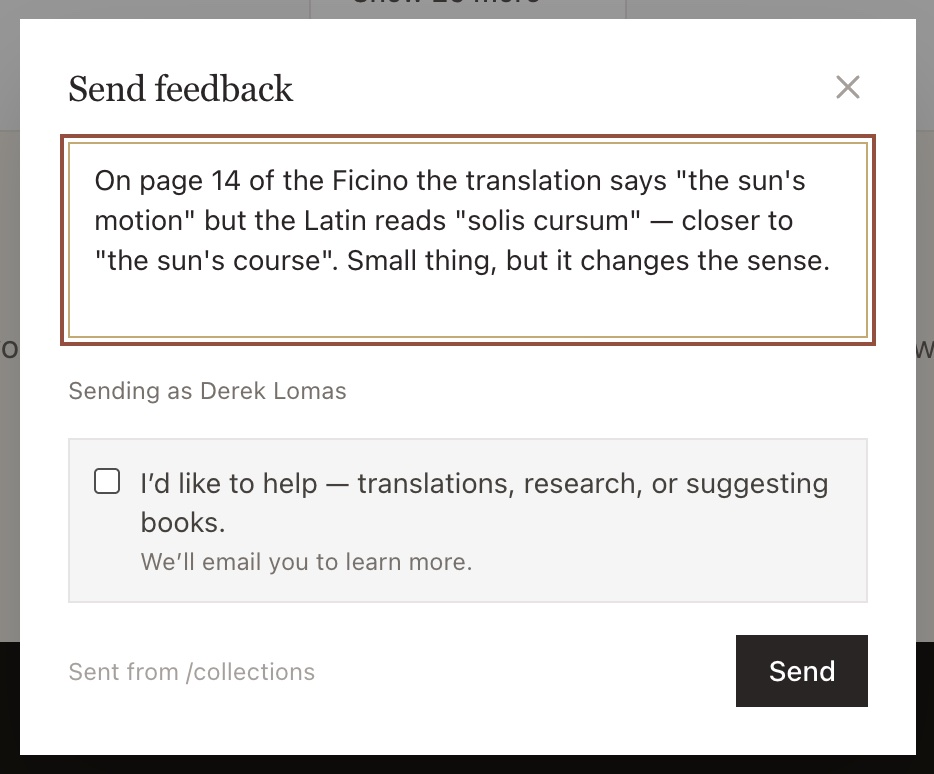
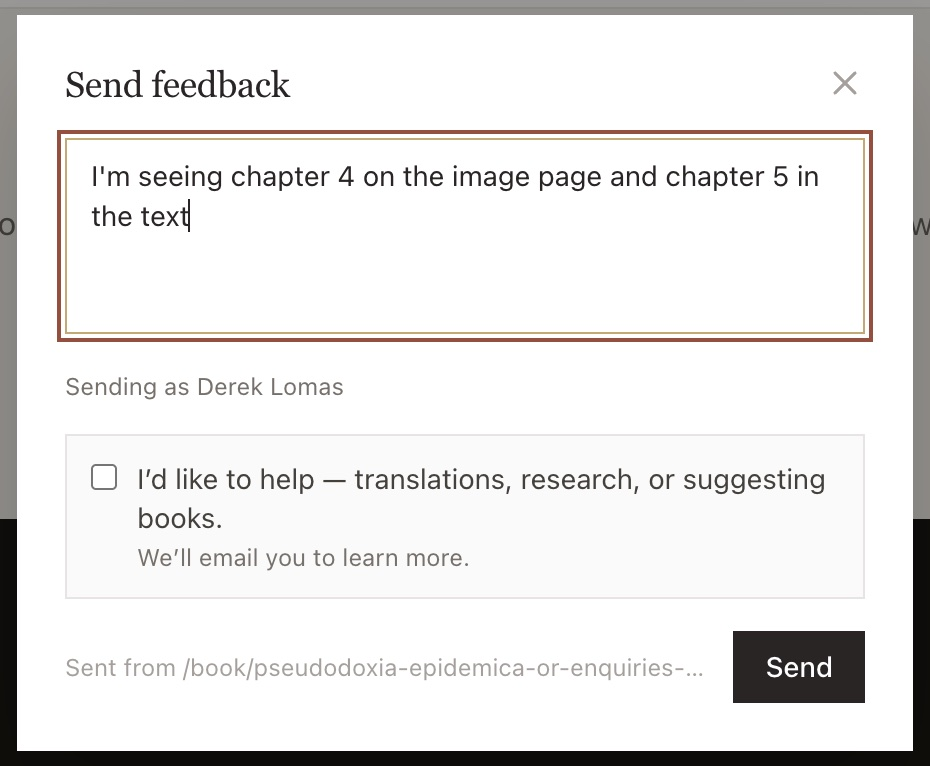
fix(email): put a real reader report in the feedback screenshot
The demo message in modal.jpg was written by Claude — a plausible-sounding
Ficino mistranslation that nobody ever sent. Derek caught it. Inventing an
example is a poor thing to do anywhere, and specifically bad in a letter whose
subject is "tell us when we get things wrong".

Replaced with a real one, verbatim, shot on the actual page it was sent from:

  "I'm seeing chapter 4 on the image page and chapter 5 in the text"
  Pseudodoxia Epidemica p.221, 2026-07-26

Those fourteen words surfaced the bulk-JP2 leaf offset (#3368): 261 books
serving every scan one leaf behind its own text, ~105,000 pages, undetected for
four months. It is the best possible advertisement for the thing the letter is
asking people to do, and it is true.

A detail worth keeping if the image is ever re-shot: the scan behind the dialog
now reads "CHAP. V.", because that book was repaired after this report. The
screenshot shows the fix as well as the report.

Alt text carries the message so a screen-reader user gets the example too, and
the file header now says to use a real report rather than compose one.

diff --git a/scripts/email/feedback-newsletter-2026-08.body.html b/scripts/email/feedback-newsletter-2026-08.body.html
@@ -37,9 +37,18 @@
   count, not a "20,000+" style claim, so it goes stale — re-measure before
   reusing it in another letter.
 
-  SCREENSHOTS live in public/email/feedback-2026-08/ and are already deployed
-  (verified 200 on 2026-08-01). footer.jpg deliberately shows the callout
-  button AND the footer link in one frame, because the letter points at both.
+  SCREENSHOTS live in public/email/feedback-2026-08/. footer.jpg deliberately
+  shows the callout button AND the footer link in one frame, because the letter
+  points at both.
+
+  modal.jpg holds a REAL reader report, verbatim, on the real page it was sent
+  from: "I'm seeing chapter 4 on the image page and chapter 5 in the text",
+  Pseudodoxia Epidemica p.221, 2026-07-26. Those fourteen words surfaced the
+  bulk-JP2 leaf offset (#3368) — 261 books serving every scan one leaf behind
+  its own text, ~105,000 pages, four months. The first version of this
+  screenshot used a plausible-sounding message Claude invented, which is a poor
+  thing to do in a letter about accuracy; Derek caught it. If you re-shoot this
+  image, use a real message from the feedback collection, not a written one.
 -->
 
 <p style="margin: 0 0 20px;">
@@ -87,7 +96,7 @@
 </p>
 
 <img src="https://sourcelibrary.org/email/feedback-2026-08/modal.jpg"
-     alt="The Send feedback dialog, with a message typed into it about a mistranslated Latin phrase, a note at the bottom reading 'Sent from /collections', and a Send button."
+     alt="The Send feedback dialog on a book page, holding a real reader report — &quot;I&#39;m seeing chapter 4 on the image page and chapter 5 in the text&quot; — with a note at the bottom reading &quot;Sent from /book/pseudodoxia-epidemica-...&quot; and a Send button."
      width="472"
      style="width: 100%; max-width: 472px; height: auto; display: block; margin: 0 0 28px; border: 1px solid #e8e4dc;" />
 
